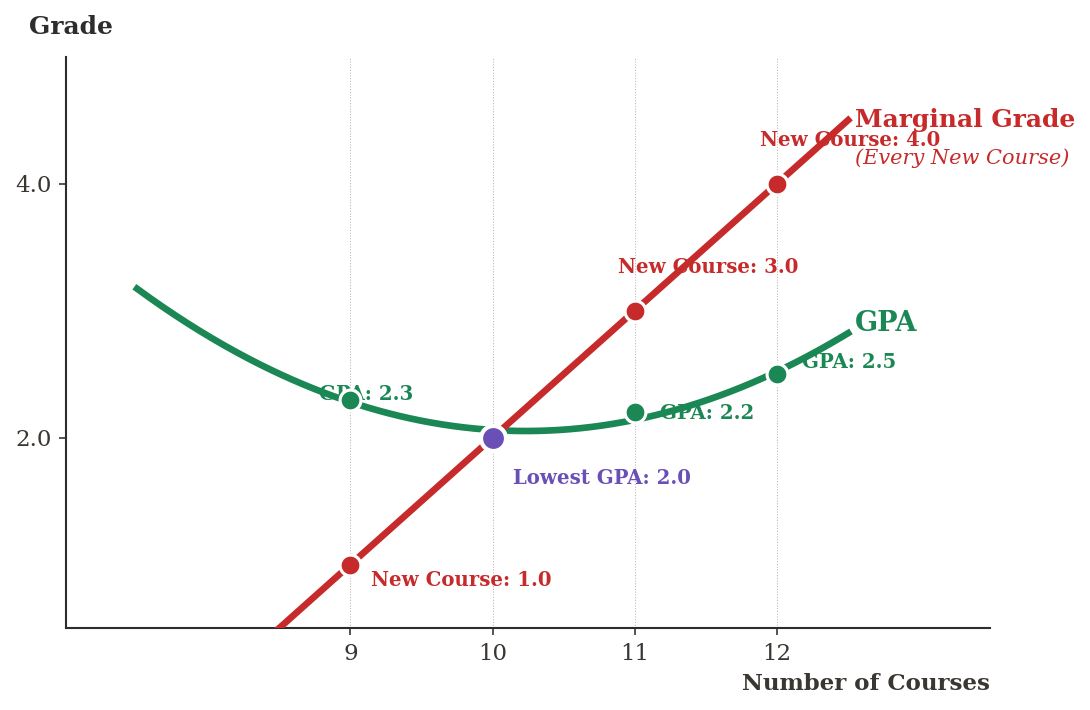
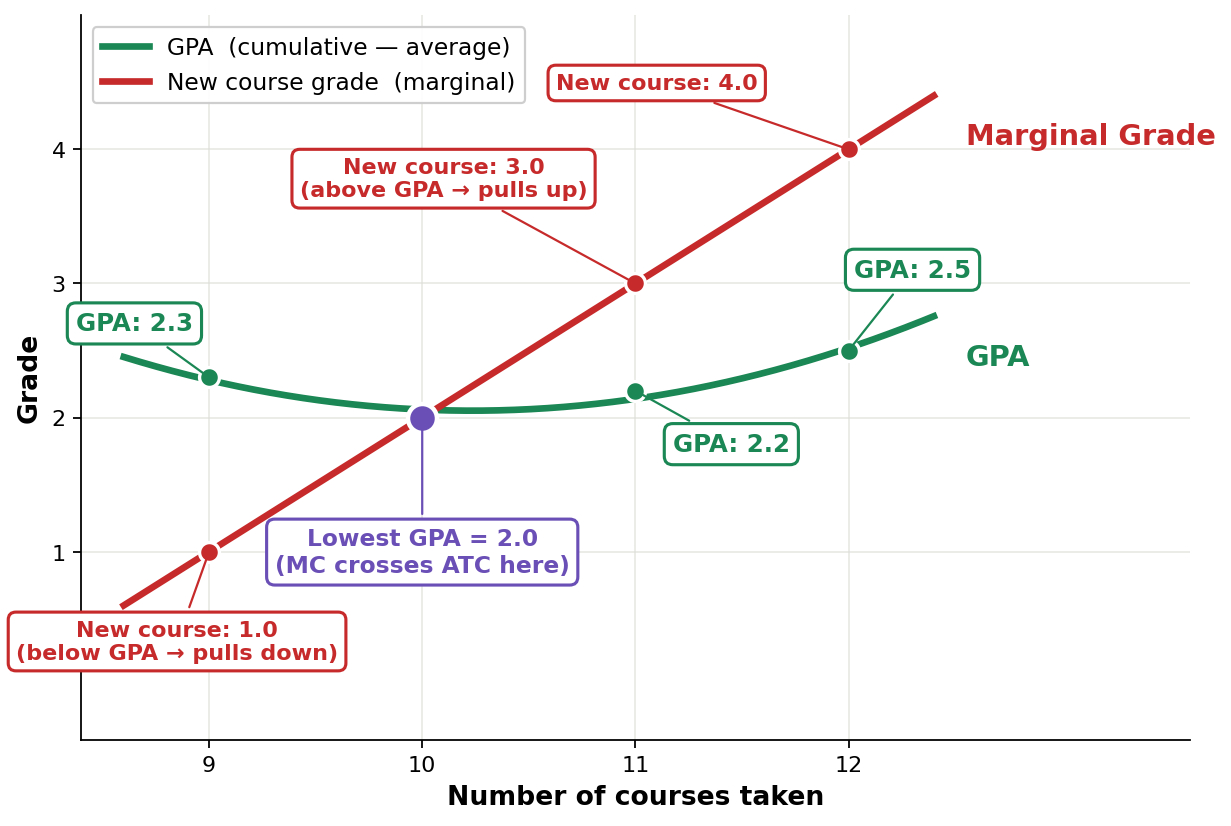
ch09: regen GPA chart, merge cost-defs into p55, vertical poll-2, drop p61
- p57 (amc-gpa-analogy): regenerate fig-gpa-analogy.png with white-bbox labels
  + leader lines so "GPA: 2.3 / 2.2 / 2.5", "New course: 1.0 / 3.0 / 4.0",
  and "Lowest GPA = 2.0" no longer overlap the curves. Script at
  figures/render_gpa_analogy.py.
- p55 (costs-that-matter): fold the former cost-definitions slide content
  into the bottom of p55 as 4 color-coded formula cards (MC, AVC, ATC, AFC)
  with colored left borders + formula header + brief description.
- p61 (cost-definitions): removed (merged above). Vertical stack under
  fc-vc YOU TRY is now 1/3 fc-vc → 2/3 total-costs-chart → 3/3
  cost-curves-chart.
- p64/p65 (poll-2): convert to the Ch7/Ch8 vertical-stack pattern. p64 is
  the question only (no inline results bar). Press ↓ from p64 reveals
  p65: bar chart + "Answer: B" explanation card with the GPA-analogy
  parallel ("a 3.0 below your 4.0 GPA drops the cumulative").

diff --git a/econ1116/ch09-inside-the-firm/index.html b/econ1116/ch09-inside-the-firm/index.html
@@ -2052,13 +2052,26 @@
    <img alt="MC (red, U-shape), AVC (purple, U-shape), ATC (orange, U-shape), and AFC (dark green, monotonically declining) as functions of output Q from 20 to 155" src="figures/fig-costs-that-matter.png" style="width: 100%; max-height: 300px; border-radius: 6px;">
   </div>
  </div>
- <div style="display: grid; grid-template-columns: 1fr 1fr; gap: 8px 14px; margin: 6px 0 0; font-size: 10pt; line-height: 1.35;">
-  <p class="fragment fade-up" data-fragment-index="1" style="margin: 0;"><strong style="color: #C72A2A;">MC</strong> = &Delta;TC/&Delta;Q &mdash; <strong>U-shape</strong> from diminishing returns.</p>
-  <p class="fragment fade-up" data-fragment-index="2" style="margin: 0;"><strong style="color: #9C6FCC;">AVC</strong> = VC/Q &mdash; U-shape; crosses MC at AVC min.</p>
-  <p class="fragment fade-up" data-fragment-index="3" style="margin: 0;"><strong style="color: #F08C26;">ATC</strong> = TC/Q &mdash; U-shape; crosses MC at ATC min.</p>
-  <p class="fragment fade-up" data-fragment-index="4" style="margin: 0;"><strong style="color: #0A5538;">AFC</strong> = FC/Q &mdash; monotonically declines (FC spread out).</p>
+ <!-- Per-unit cost formula cards (merged from former cost-definitions slide) -->
+ <div style="display: grid; grid-template-columns: 1fr 1fr 1fr 1fr; gap: 6px; margin: 6px 0 0;">
+  <div class="fragment fade-up" data-fragment-index="1" style="background: #fef2f2; border-left: 3px solid #C72A2A; border-radius: 5px; padding: 5px 9px;">
+   <p style="font-size: 10pt; font-weight: 800; color: #C72A2A; margin: 0;">MC = &Delta;TC / &Delta;Q</p>
+   <p style="font-size: 9pt; margin: 1px 0 0; line-height: 1.3;">Cost of one more unit. <strong>U-shape</strong> from diminishing returns.</p>
+  </div>
+  <div class="fragment fade-up" data-fragment-index="2" style="background: #f5e9f7; border-left: 3px solid #9C6FCC; border-radius: 5px; padding: 5px 9px;">
+   <p style="font-size: 10pt; font-weight: 800; color: #9C6FCC; margin: 0;">AVC = VC / Q</p>
+   <p style="font-size: 9pt; margin: 1px 0 0; line-height: 1.3;">U-shaped. MC crosses AVC at AVC min.</p>
+  </div>
+  <div class="fragment fade-up" data-fragment-index="3" style="background: #fff7ed; border-left: 3px solid #F08C26; border-radius: 5px; padding: 5px 9px;">
+   <p style="font-size: 10pt; font-weight: 800; color: #F08C26; margin: 0;">ATC = TC / Q = AFC + AVC</p>
+   <p style="font-size: 9pt; margin: 1px 0 0; line-height: 1.3;">U-shaped. Always above AVC. MC crosses ATC at ATC min.</p>
+  </div>
+  <div class="fragment fade-up" data-fragment-index="4" style="background: #ecfdf5; border-left: 3px solid #0A5538; border-radius: 5px; padding: 5px 9px;">
+   <p style="font-size: 10pt; font-weight: 800; color: #0A5538; margin: 0;">AFC = FC / Q</p>
+   <p style="font-size: 9pt; margin: 1px 0 0; line-height: 1.3;">Always falls as Q rises (FC spread out).</p>
+  </div>
  </div>
- <aside class="notes">The full cost decomposition. Walk through the chart left-to-right: AFC (dark green) just keeps falling &mdash; fixed cost spread over more units. AVC (purple) and ATC (orange) are U-shaped &mdash; they fall at first (early specialization + declining AFC dominates), then rise as MC overtakes them (diminishing MP regime). MC (red) is the inflection: starts at $0.85 at Q=20, dips to $0.48 at Q=90, then climbs steeply to $3.10 at Q=155. The MC=AVC crossing at Q=120 (both &asymp; $0.60) is the AVC minimum &mdash; geometric identity. MC=ATC crossing at Q&asymp;140 (both &asymp; $0.82) is the ATC minimum.</aside>
+ <aside class="notes">The full cost decomposition. Walk through the chart left-to-right: AFC (dark green) just keeps falling &mdash; fixed cost spread over more units. AVC (purple) and ATC (orange) are U-shaped &mdash; they fall at first (early specialization + declining AFC dominates), then rise as MC overtakes them (diminishing MP regime). MC (red) is the inflection: starts at $0.85 at Q=20, dips to $0.48 at Q=90, then climbs steeply to $3.10 at Q=155. The MC=AVC crossing at Q=120 (both &asymp; $0.60) is the AVC minimum &mdash; geometric identity. MC=ATC crossing at Q&asymp;140 (both &asymp; $0.82) is the ATC minimum. The 4 cost-formula cards along the bottom replace the former standalone cost-definitions slide (merged).</aside>
 </section>
 
 <!-- ===== Slide AM — Average & Marginal Costs Relationships (merged, no equations) ===== -->
@@ -2203,7 +2216,7 @@
 <!-- ============ VERTICAL STACK: YOU TRY cost schedule → TC chart → defs → canonical chart ============ -->
 <section>
 
-<!-- vertical 1/4 — YOU TRY: fill the cost schedule (TC/MC/AFC/AVC/ATC hidden) -->
+<!-- vertical 1/3 — YOU TRY: fill the cost schedule (TC/MC/AFC/AVC/ATC hidden) -->
 <section id="fc-vc">
  <h2><span style="display: inline-block; background: var(--accent-color); color: #fff; font-size: 11pt; font-weight: 800; letter-spacing: 0.12em; padding: 2px 10px; border-radius: 4px; vertical-align: middle; margin-right: 10px;">YOU TRY</span><i class="fa-solid fa-layer-group" style="color: var(--secondary-color);"></i> Fixed Costs vs. Variable Costs &mdash; Fill the Schedule</h2>
  <div style="display: grid; grid-template-columns: 1fr 1fr; gap: 14px; margin-bottom: 10px;">
@@ -2233,11 +2246,11 @@
   <tr style="background: #fafafa;"><td style="padding: 6px 10px; text-align: center;">5</td><td style="padding: 6px 10px; text-align: center;">50</td><td style="padding: 6px 10px; text-align: center;">$25</td><td style="padding: 6px 10px; text-align: center;">$150</td><td style="padding: 6px 10px; text-align: center; color: #b45309;">?</td><td style="padding: 6px 10px; text-align: center; color: #b45309;">?</td><td style="padding: 6px 10px; text-align: center; color: #b45309;">?</td><td style="padding: 6px 10px; text-align: center; color: #b45309;">?</td><td style="padding: 6px 10px; text-align: center; color: #b45309;">?</td></tr>
  </table>
  <aside class="notes">
-  Hand students a worksheet with this table. Walk one row out loud as a model: L=2, Q=30. VC = $15&times;2 + $1.50&times;30 = $30 + $45 = $75 (given). TC = $25 + $75 = $100. ATC = $100/30 = $3.33. MC from prior row = ($100&minus;$58)/(30&minus;12) = $42/18 = $2.33. Then give 3-4 minutes for them to fill the rest. Press &darr; to reveal: (1) TC vs FC vs VC chart, (2) per-unit cost definitions, (3) canonical MC&times;AVC&times;ATC chart with the full schedule&rsquo;s ATC minimum at L=3 row (efficient scale).
+  Hand students a worksheet with this table. Walk one row out loud as a model: L=2, Q=30. VC = $15&times;2 + $1.50&times;30 = $30 + $45 = $75 (given). TC = $25 + $75 = $100. ATC = $100/30 = $3.33. MC from prior row = ($100&minus;$58)/(30&minus;12) = $42/18 = $2.33. Then give 3-4 minutes for them to fill the rest. Press &darr; to reveal: (1) TC vs FC vs VC chart, (2) canonical MC&times;AVC&times;ATC chart with the full schedule&rsquo;s ATC minimum at L=3 row (efficient scale).
  </aside>
 </section>
 
-<!-- vertical 2/4 — Total Cost chart (visual answer for TC = FC + VC) -->
+<!-- vertical 2/3 — Total Cost chart (visual answer for TC = FC + VC) -->
 <section id="total-costs-chart">
  <h2><i class="fa-solid fa-chart-area" style="color: var(--secondary-color);"></i> Answer &mdash; Total, Variable, and Fixed Cost</h2>
  <img alt="Campus Coffee total cost curves" src="figures/figure_002_total_costs.png" style="max-width: 100%; max-height: 480px; object-fit: contain; display: block; margin: 0 auto;">
@@ -2251,36 +2264,9 @@
  </aside>
 </section>
 
-<!-- vertical 3/4 — Per-unit cost definitions (formulas for AFC, AVC, ATC, MC) -->
-<section id="cost-definitions">
- <h2><i class="fa-solid fa-list-check" style="color: var(--accent-color);"></i> Answer &mdash; Per-Unit Cost Formulas</h2>
- <div style="display: grid; grid-template-columns: 1fr 1fr; gap: 14px;">
-  <div style="background: #f5e9f7; border-radius: 10px; padding: 14px 18px; border-left: 4px solid #7c3aed;">
-   <p style="font-size: 13pt; font-weight: 700; color: #7c3aed;">AFC = FC / Q</p>
-   <p style="font-size: 12.5pt; margin-top: 4px;">Average fixed cost &mdash; <strong>always falls</strong> as Q rises (spreading FC).</p>
-  </div>
-  <div style="background: #ecfeff; border-radius: 10px; padding: 14px 18px; border-left: 4px solid #0891b2;">
-   <p style="font-size: 13pt; font-weight: 700; color: #0891b2;">AVC = VC / Q</p>
-   <p style="font-size: 12.5pt; margin-top: 4px;">Average variable cost &mdash; typically <strong>U-shaped</strong>.</p>
-  </div>
-  <div style="background: #eff6ff; border-radius: 10px; padding: 14px 18px; border-left: 4px solid var(--primary-color);">
-   <p style="font-size: 13pt; font-weight: 700; color: var(--primary-color);">ATC = TC / Q = AFC + AVC</p>
-   <p style="font-size: 12.5pt; margin-top: 4px;">Average total cost &mdash; <strong>U-shaped</strong>. Always above AVC.</p>
-  </div>
-  <div style="background: #fff7ed; border-radius: 10px; padding: 14px 18px; border-left: 4px solid var(--accent-color);">
-   <p style="font-size: 13pt; font-weight: 700; color: var(--accent-color);">MC = &Delta;TC / &Delta;Q</p>
-   <p style="font-size: 12.5pt; margin-top: 4px;">Marginal cost &mdash; cost of <em>one more</em> unit. <strong>The most important cost for decisions.</strong></p>
-  </div>
- </div>
- <div style="background: #eff6ff; border-radius: 10px; padding: 12px 20px; margin-top: 12px; border: 2px solid var(--secondary-color); text-align: center;">
-  <p style="font-size: 13pt;">When <strong>MP is high &rarr; MC is low</strong> &nbsp;&middot;&nbsp; when <strong>MP is low &rarr; MC is high</strong>. They&rsquo;re mirror images.</p>
- </div>
- <aside class="notes">
-  Define each, but emphasize MC. Connect to the production function: MC = wage / MP for a variable input. The same diminishing returns that lowered MP in §2 raise MC here.
- </aside>
-</section>
+<!-- (cost-definitions removed 2026-05-31 — merged into costs-that-matter slide as 4 formula cards along the bottom) -->
 
-<!-- vertical 4/4 — The canonical cost curves chart (full visual answer) -->
+<!-- vertical 3/3 — The canonical cost curves chart (full visual answer) -->
 <section id="cost-curves-chart">
  <h2><i class="fa-solid fa-chart-line" style="color: var(--accent-color);"></i> Answer &mdash; The Canonical Cost Curves</h2>
  <img alt="MC crossing AVC and ATC at their minima" src="figures/figure_003_mc_atc_avc.png" style="max-width: 100%; max-height: 530px; object-fit: contain; display: block; margin: 0 auto;">
@@ -2357,6 +2343,9 @@
 </section>
 
 <!-- ============ POLL 2 — GPA / MC-ATC CHECK ============ -->
+<!-- Poll 2 (vertical stack: question + reveal — same pattern as Ch7/Ch8) -->
+<section>
+
 <section id="poll-2">
  <h2><i class="fa-solid fa-square-poll-vertical" style="color: var(--accent-color);"></i> Poll &mdash; The MC/ATC Check</h2>
  <div style="background: #f8f6f3; border-radius: 10px; padding: 14px 20px; margin-bottom: 14px; border-left: 4px solid var(--secondary-color);">
@@ -2376,12 +2365,29 @@
    <p style="font-size: 13pt;"><strong>D.</strong> Depends on whether MR &gt; MC</p>
   </div>
  </div>
- <div class="poll-results-chart" data-poll-id="ch09-poll-2" style="display: flex; align-items: flex-end; justify-content: space-around; height: 200px; margin: 30px 0 40px 0; border-bottom: 2px solid #ddd; padding: 0 40px;"></div>
- <p style="font-size: 12pt; color: var(--muted-color); text-align: center;">Vote &mdash; results above. (Hint: GPA analogy.)</p>
+ <p style="font-size: 13pt; color: var(--muted-color); text-align: center; margin-top: 14px; font-style: italic;">Click your answer. (Hint: GPA analogy.) Press <strong>&darr;</strong> for results.</p>
  <aside class="notes">
-  Correct: <strong>B</strong>. MC=$3 &lt; ATC=$4, so the next unit pulls the average DOWN. (D is a Ch 10 question — profit maximization — but here we&rsquo;re asking purely about averages.)
+  Correct: <strong>B</strong>. MC=$3 &lt; ATC=$4, so the next unit pulls the average DOWN. (D is a Ch 10 question — profit maximization — but here we&rsquo;re asking purely about averages.) Press &darr; to reveal the bar-chart results + answer card.
  </aside>
 </section>
+
+<!-- Poll 2 reveal — vertical down -->
+<section id="poll-2-reveal">
+ <h2><i class="fa-solid fa-chart-column" style="color: var(--accent-color);"></i> Poll Results</h2>
+ <div class="poll-results-chart" data-poll-id="ch09-poll-2" style="display: flex; align-items: flex-end; justify-content: space-around; height: 200px; margin: 20px 0 40px 0; border-bottom: 2px solid #ddd; padding: 0 40px;"></div>
+ <div style="background: #fff7ed; border-radius: 10px; padding: 16px 22px; border-left: 4px solid var(--accent-color); margin-top: 12px;">
+  <p style="font-size: 14pt;"><strong>Answer: B.</strong> MC = $3 is <strong>below</strong> the running average ATC = $4 &mdash; so the next loaf pulls ATC <strong>down</strong>. (Same GPA rule: a 3.0 below your 4.0 GPA drops the cumulative.)</p>
+  <p style="font-size: 12.5pt; margin-top: 8px; color: var(--muted-color);">
+   The new ATC after that loaf isn&rsquo;t $3 (that&rsquo;s just the marginal cost of <em>one</em> unit). It lands somewhere between $3 and $4, weighted by how many loaves were already in the average. (D is a Ch 10 profit-max question &mdash; not what we&rsquo;re asking here.)
+  </p>
+ </div>
+ <aside class="notes">
+  Walk through the bar chart. If most picked B → reinforce. If many picked A → highlight the misconception (more total cost ≠ higher average if the new unit is below average). D-pickers were thinking about profit-max (Ch 10), not just the arithmetic of averages.
+ </aside>
+</section>
+
+</section>
+<!-- end Poll 2 vertical stack -->
 
 <!-- ============ MISCONCEPTION: FC IRRELEVANT FOR Q* ============ -->
 <section id="fc-misconception">

diff --git a/econ1116/ch09-inside-the-firm/presentation.html b/econ1116/ch09-inside-the-firm/presentation.html
@@ -2052,13 +2052,26 @@
    <img alt="MC (red, U-shape), AVC (purple, U-shape), ATC (orange, U-shape), and AFC (dark green, monotonically declining) as functions of output Q from 20 to 155" src="figures/fig-costs-that-matter.png" style="width: 100%; max-height: 300px; border-radius: 6px;">
   </div>
  </div>
- <div style="display: grid; grid-template-columns: 1fr 1fr; gap: 8px 14px; margin: 6px 0 0; font-size: 10pt; line-height: 1.35;">
-  <p class="fragment fade-up" data-fragment-index="1" style="margin: 0;"><strong style="color: #C72A2A;">MC</strong> = &Delta;TC/&Delta;Q &mdash; <strong>U-shape</strong> from diminishing returns.</p>
-  <p class="fragment fade-up" data-fragment-index="2" style="margin: 0;"><strong style="color: #9C6FCC;">AVC</strong> = VC/Q &mdash; U-shape; crosses MC at AVC min.</p>
-  <p class="fragment fade-up" data-fragment-index="3" style="margin: 0;"><strong style="color: #F08C26;">ATC</strong> = TC/Q &mdash; U-shape; crosses MC at ATC min.</p>
-  <p class="fragment fade-up" data-fragment-index="4" style="margin: 0;"><strong style="color: #0A5538;">AFC</strong> = FC/Q &mdash; monotonically declines (FC spread out).</p>
+ <!-- Per-unit cost formula cards (merged from former cost-definitions slide) -->
+ <div style="display: grid; grid-template-columns: 1fr 1fr 1fr 1fr; gap: 6px; margin: 6px 0 0;">
+  <div class="fragment fade-up" data-fragment-index="1" style="background: #fef2f2; border-left: 3px solid #C72A2A; border-radius: 5px; padding: 5px 9px;">
+   <p style="font-size: 10pt; font-weight: 800; color: #C72A2A; margin: 0;">MC = &Delta;TC / &Delta;Q</p>
+   <p style="font-size: 9pt; margin: 1px 0 0; line-height: 1.3;">Cost of one more unit. <strong>U-shape</strong> from diminishing returns.</p>
+  </div>
+  <div class="fragment fade-up" data-fragment-index="2" style="background: #f5e9f7; border-left: 3px solid #9C6FCC; border-radius: 5px; padding: 5px 9px;">
+   <p style="font-size: 10pt; font-weight: 800; color: #9C6FCC; margin: 0;">AVC = VC / Q</p>
+   <p style="font-size: 9pt; margin: 1px 0 0; line-height: 1.3;">U-shaped. MC crosses AVC at AVC min.</p>
+  </div>
+  <div class="fragment fade-up" data-fragment-index="3" style="background: #fff7ed; border-left: 3px solid #F08C26; border-radius: 5px; padding: 5px 9px;">
+   <p style="font-size: 10pt; font-weight: 800; color: #F08C26; margin: 0;">ATC = TC / Q = AFC + AVC</p>
+   <p style="font-size: 9pt; margin: 1px 0 0; line-height: 1.3;">U-shaped. Always above AVC. MC crosses ATC at ATC min.</p>
+  </div>
+  <div class="fragment fade-up" data-fragment-index="4" style="background: #ecfdf5; border-left: 3px solid #0A5538; border-radius: 5px; padding: 5px 9px;">
+   <p style="font-size: 10pt; font-weight: 800; color: #0A5538; margin: 0;">AFC = FC / Q</p>
+   <p style="font-size: 9pt; margin: 1px 0 0; line-height: 1.3;">Always falls as Q rises (FC spread out).</p>
+  </div>
  </div>
- <aside class="notes">The full cost decomposition. Walk through the chart left-to-right: AFC (dark green) just keeps falling &mdash; fixed cost spread over more units. AVC (purple) and ATC (orange) are U-shaped &mdash; they fall at first (early specialization + declining AFC dominates), then rise as MC overtakes them (diminishing MP regime). MC (red) is the inflection: starts at $0.85 at Q=20, dips to $0.48 at Q=90, then climbs steeply to $3.10 at Q=155. The MC=AVC crossing at Q=120 (both &asymp; $0.60) is the AVC minimum &mdash; geometric identity. MC=ATC crossing at Q&asymp;140 (both &asymp; $0.82) is the ATC minimum.</aside>
+ <aside class="notes">The full cost decomposition. Walk through the chart left-to-right: AFC (dark green) just keeps falling &mdash; fixed cost spread over more units. AVC (purple) and ATC (orange) are U-shaped &mdash; they fall at first (early specialization + declining AFC dominates), then rise as MC overtakes them (diminishing MP regime). MC (red) is the inflection: starts at $0.85 at Q=20, dips to $0.48 at Q=90, then climbs steeply to $3.10 at Q=155. The MC=AVC crossing at Q=120 (both &asymp; $0.60) is the AVC minimum &mdash; geometric identity. MC=ATC crossing at Q&asymp;140 (both &asymp; $0.82) is the ATC minimum. The 4 cost-formula cards along the bottom replace the former standalone cost-definitions slide (merged).</aside>
 </section>
 
 <!-- ===== Slide AM — Average & Marginal Costs Relationships (merged, no equations) ===== -->
@@ -2203,7 +2216,7 @@
 <!-- ============ VERTICAL STACK: YOU TRY cost schedule → TC chart → defs → canonical chart ============ -->
 <section>
 
-<!-- vertical 1/4 — YOU TRY: fill the cost schedule (TC/MC/AFC/AVC/ATC hidden) -->
+<!-- vertical 1/3 — YOU TRY: fill the cost schedule (TC/MC/AFC/AVC/ATC hidden) -->
 <section id="fc-vc">
  <h2><span style="display: inline-block; background: var(--accent-color); color: #fff; font-size: 11pt; font-weight: 800; letter-spacing: 0.12em; padding: 2px 10px; border-radius: 4px; vertical-align: middle; margin-right: 10px;">YOU TRY</span><i class="fa-solid fa-layer-group" style="color: var(--secondary-color);"></i> Fixed Costs vs. Variable Costs &mdash; Fill the Schedule</h2>
  <div style="display: grid; grid-template-columns: 1fr 1fr; gap: 14px; margin-bottom: 10px;">
@@ -2233,11 +2246,11 @@
   <tr style="background: #fafafa;"><td style="padding: 6px 10px; text-align: center;">5</td><td style="padding: 6px 10px; text-align: center;">50</td><td style="padding: 6px 10px; text-align: center;">$25</td><td style="padding: 6px 10px; text-align: center;">$150</td><td style="padding: 6px 10px; text-align: center; color: #b45309;">?</td><td style="padding: 6px 10px; text-align: center; color: #b45309;">?</td><td style="padding: 6px 10px; text-align: center; color: #b45309;">?</td><td style="padding: 6px 10px; text-align: center; color: #b45309;">?</td><td style="padding: 6px 10px; text-align: center; color: #b45309;">?</td></tr>
  </table>
  <aside class="notes">
-  Hand students a worksheet with this table. Walk one row out loud as a model: L=2, Q=30. VC = $15&times;2 + $1.50&times;30 = $30 + $45 = $75 (given). TC = $25 + $75 = $100. ATC = $100/30 = $3.33. MC from prior row = ($100&minus;$58)/(30&minus;12) = $42/18 = $2.33. Then give 3-4 minutes for them to fill the rest. Press &darr; to reveal: (1) TC vs FC vs VC chart, (2) per-unit cost definitions, (3) canonical MC&times;AVC&times;ATC chart with the full schedule&rsquo;s ATC minimum at L=3 row (efficient scale).
+  Hand students a worksheet with this table. Walk one row out loud as a model: L=2, Q=30. VC = $15&times;2 + $1.50&times;30 = $30 + $45 = $75 (given). TC = $25 + $75 = $100. ATC = $100/30 = $3.33. MC from prior row = ($100&minus;$58)/(30&minus;12) = $42/18 = $2.33. Then give 3-4 minutes for them to fill the rest. Press &darr; to reveal: (1) TC vs FC vs VC chart, (2) canonical MC&times;AVC&times;ATC chart with the full schedule&rsquo;s ATC minimum at L=3 row (efficient scale).
  </aside>
 </section>
 
-<!-- vertical 2/4 — Total Cost chart (visual answer for TC = FC + VC) -->
+<!-- vertical 2/3 — Total Cost chart (visual answer for TC = FC + VC) -->
 <section id="total-costs-chart">
  <h2><i class="fa-solid fa-chart-area" style="color: var(--secondary-color);"></i> Answer &mdash; Total, Variable, and Fixed Cost</h2>
  <img alt="Campus Coffee total cost curves" src="figures/figure_002_total_costs.png" style="max-width: 100%; max-height: 480px; object-fit: contain; display: block; margin: 0 auto;">
@@ -2251,36 +2264,9 @@
  </aside>
 </section>
 
-<!-- vertical 3/4 — Per-unit cost definitions (formulas for AFC, AVC, ATC, MC) -->
-<section id="cost-definitions">
- <h2><i class="fa-solid fa-list-check" style="color: var(--accent-color);"></i> Answer &mdash; Per-Unit Cost Formulas</h2>
- <div style="display: grid; grid-template-columns: 1fr 1fr; gap: 14px;">
-  <div style="background: #f5e9f7; border-radius: 10px; padding: 14px 18px; border-left: 4px solid #7c3aed;">
-   <p style="font-size: 13pt; font-weight: 700; color: #7c3aed;">AFC = FC / Q</p>
-   <p style="font-size: 12.5pt; margin-top: 4px;">Average fixed cost &mdash; <strong>always falls</strong> as Q rises (spreading FC).</p>
-  </div>
-  <div style="background: #ecfeff; border-radius: 10px; padding: 14px 18px; border-left: 4px solid #0891b2;">
-   <p style="font-size: 13pt; font-weight: 700; color: #0891b2;">AVC = VC / Q</p>
-   <p style="font-size: 12.5pt; margin-top: 4px;">Average variable cost &mdash; typically <strong>U-shaped</strong>.</p>
-  </div>
-  <div style="background: #eff6ff; border-radius: 10px; padding: 14px 18px; border-left: 4px solid var(--primary-color);">
-   <p style="font-size: 13pt; font-weight: 700; color: var(--primary-color);">ATC = TC / Q = AFC + AVC</p>
-   <p style="font-size: 12.5pt; margin-top: 4px;">Average total cost &mdash; <strong>U-shaped</strong>. Always above AVC.</p>
-  </div>
-  <div style="background: #fff7ed; border-radius: 10px; padding: 14px 18px; border-left: 4px solid var(--accent-color);">
-   <p style="font-size: 13pt; font-weight: 700; color: var(--accent-color);">MC = &Delta;TC / &Delta;Q</p>
-   <p style="font-size: 12.5pt; margin-top: 4px;">Marginal cost &mdash; cost of <em>one more</em> unit. <strong>The most important cost for decisions.</strong></p>
-  </div>
- </div>
- <div style="background: #eff6ff; border-radius: 10px; padding: 12px 20px; margin-top: 12px; border: 2px solid var(--secondary-color); text-align: center;">
-  <p style="font-size: 13pt;">When <strong>MP is high &rarr; MC is low</strong> &nbsp;&middot;&nbsp; when <strong>MP is low &rarr; MC is high</strong>. They&rsquo;re mirror images.</p>
- </div>
- <aside class="notes">
-  Define each, but emphasize MC. Connect to the production function: MC = wage / MP for a variable input. The same diminishing returns that lowered MP in §2 raise MC here.
- </aside>
-</section>
+<!-- (cost-definitions removed 2026-05-31 — merged into costs-that-matter slide as 4 formula cards along the bottom) -->
 
-<!-- vertical 4/4 — The canonical cost curves chart (full visual answer) -->
+<!-- vertical 3/3 — The canonical cost curves chart (full visual answer) -->
 <section id="cost-curves-chart">
  <h2><i class="fa-solid fa-chart-line" style="color: var(--accent-color);"></i> Answer &mdash; The Canonical Cost Curves</h2>
  <img alt="MC crossing AVC and ATC at their minima" src="figures/figure_003_mc_atc_avc.png" style="max-width: 100%; max-height: 530px; object-fit: contain; display: block; margin: 0 auto;">
@@ -2357,6 +2343,9 @@
 </section>
 
 <!-- ============ POLL 2 — GPA / MC-ATC CHECK ============ -->
+<!-- Poll 2 (vertical stack: question + reveal — same pattern as Ch7/Ch8) -->
+<section>
+
 <section id="poll-2">
  <h2><i class="fa-solid fa-square-poll-vertical" style="color: var(--accent-color);"></i> Poll &mdash; The MC/ATC Check</h2>
  <div style="background: #f8f6f3; border-radius: 10px; padding: 14px 20px; margin-bottom: 14px; border-left: 4px solid var(--secondary-color);">
@@ -2376,12 +2365,29 @@
    <p style="font-size: 13pt;"><strong>D.</strong> Depends on whether MR &gt; MC</p>
   </div>
  </div>
- <div class="poll-results-chart" data-poll-id="ch09-poll-2" style="display: flex; align-items: flex-end; justify-content: space-around; height: 200px; margin: 30px 0 40px 0; border-bottom: 2px solid #ddd; padding: 0 40px;"></div>
- <p style="font-size: 12pt; color: var(--muted-color); text-align: center;">Vote &mdash; results above. (Hint: GPA analogy.)</p>
+ <p style="font-size: 13pt; color: var(--muted-color); text-align: center; margin-top: 14px; font-style: italic;">Click your answer. (Hint: GPA analogy.) Press <strong>&darr;</strong> for results.</p>
  <aside class="notes">
-  Correct: <strong>B</strong>. MC=$3 &lt; ATC=$4, so the next unit pulls the average DOWN. (D is a Ch 10 question — profit maximization — but here we&rsquo;re asking purely about averages.)
+  Correct: <strong>B</strong>. MC=$3 &lt; ATC=$4, so the next unit pulls the average DOWN. (D is a Ch 10 question — profit maximization — but here we&rsquo;re asking purely about averages.) Press &darr; to reveal the bar-chart results + answer card.
  </aside>
 </section>
+
+<!-- Poll 2 reveal — vertical down -->
+<section id="poll-2-reveal">
+ <h2><i class="fa-solid fa-chart-column" style="color: var(--accent-color);"></i> Poll Results</h2>
+ <div class="poll-results-chart" data-poll-id="ch09-poll-2" style="display: flex; align-items: flex-end; justify-content: space-around; height: 200px; margin: 20px 0 40px 0; border-bottom: 2px solid #ddd; padding: 0 40px;"></div>
+ <div style="background: #fff7ed; border-radius: 10px; padding: 16px 22px; border-left: 4px solid var(--accent-color); margin-top: 12px;">
+  <p style="font-size: 14pt;"><strong>Answer: B.</strong> MC = $3 is <strong>below</strong> the running average ATC = $4 &mdash; so the next loaf pulls ATC <strong>down</strong>. (Same GPA rule: a 3.0 below your 4.0 GPA drops the cumulative.)</p>
+  <p style="font-size: 12.5pt; margin-top: 8px; color: var(--muted-color);">
+   The new ATC after that loaf isn&rsquo;t $3 (that&rsquo;s just the marginal cost of <em>one</em> unit). It lands somewhere between $3 and $4, weighted by how many loaves were already in the average. (D is a Ch 10 profit-max question &mdash; not what we&rsquo;re asking here.)
+  </p>
+ </div>
+ <aside class="notes">
+  Walk through the bar chart. If most picked B → reinforce. If many picked A → highlight the misconception (more total cost ≠ higher average if the new unit is below average). D-pickers were thinking about profit-max (Ch 10), not just the arithmetic of averages.
+ </aside>
+</section>
+
+</section>
+<!-- end Poll 2 vertical stack -->
 
 <!-- ============ MISCONCEPTION: FC IRRELEVANT FOR Q* ============ -->
 <section id="fc-misconception">

diff --git a/econ1116/ch09-inside-the-firm/figures/render_gpa_analogy.py b/econ1116/ch09-inside-the-firm/figures/render_gpa_analogy.py
@@ -1,0 +1,96 @@
+"""Regenerate fig-gpa-analogy.png with non-overlapping labels.
+
+Previous version (imported from 2316 ch08) had labels stacked directly on top
+of the curves: "GPA: 2.3", "GPA: 2.2", "GPA: 2.5" overlapped the green line;
+"New Course: 1.0/3.0/4.0" overlapped the red line; "Lowest GPA: 2.0" overlapped
+the crossing point. This version uses white-bbox labels placed off the curves
+with short leader-line arrows.
+
+Story: 4 semesters (courses 9 → 12). Cumulative GPA (green, average) reacts to
+each new course's grade (red, marginal). Sub-GPA next courses pull GPA down;
+above-GPA ones pull it up. They cross at the GPA minimum (course 10).
+"""
+import matplotlib
+matplotlib.use('Agg')
+import matplotlib.pyplot as plt
+import numpy as np
+
+# Data
+courses = np.array([9, 10, 11, 12])
+gpa     = np.array([2.3, 2.0, 2.2, 2.5])
+new_grade = np.array([1.0, 2.0, 3.0, 4.0])
+
+# Smooth curves through the 4 points (quadratic + linear)
+xs = np.linspace(8.6, 12.4, 200)
+gpa_coef = np.polyfit(courses, gpa, 2)
+gpa_smooth = np.polyval(gpa_coef, xs)
+new_smooth = np.polyval(np.polyfit(courses, new_grade, 1), xs)
+
+# Figure
+GREEN = '#1A8754'
+RED   = '#C72A2A'
+PURPLE = '#6A4FB6'
+GRID  = '#dcdcd6'
+
+fig, ax = plt.subplots(figsize=(8.0, 5.3))
+ax.plot(xs, gpa_smooth, color=GREEN, linewidth=3.0, label='GPA  (cumulative — average)', zorder=3)
+ax.plot(xs, new_smooth, color=RED,   linewidth=3.0, label='New course grade  (marginal)', zorder=3)
+
+# Data points
+ax.scatter(courses, gpa, color=GREEN, s=80, zorder=5, edgecolor='white', linewidth=1.5)
+ax.scatter(courses, new_grade, color=RED, s=80, zorder=5, edgecolor='white', linewidth=1.5)
+
+# Crossing point (course 10)
+ax.scatter([10], [2.0], color=PURPLE, s=170, zorder=6, edgecolor='white', linewidth=2.0)
+
+
+def label(ax, txt, xy, xytext, color, fontsize=11, weight='bold'):
+    ax.annotate(txt, xy=xy, xytext=xytext, fontsize=fontsize, color=color,
+                fontweight=weight, ha='center',
+                bbox=dict(boxstyle='round,pad=0.35', facecolor='white',
+                          edgecolor=color, linewidth=1.4),
+                arrowprops=dict(arrowstyle='-', color=color, lw=1.0,
+                                connectionstyle='arc3,rad=0'),
+                zorder=10)
+
+
+# GPA labels (placed BELOW or ABOVE the green curve so they don't overlap it)
+label(ax, 'GPA: 2.3',  xy=(9, 2.3),  xytext=(8.65, 2.65), color=GREEN)
+label(ax, 'GPA: 2.2',  xy=(11, 2.2), xytext=(11.45, 1.75), color=GREEN)
+label(ax, 'GPA: 2.5',  xy=(12, 2.5), xytext=(12.30, 3.05), color=GREEN)
+
+# Crossing point label (placed below, in purple)
+label(ax, 'Lowest GPA = 2.0\n(MC crosses ATC here)',
+      xy=(10, 2.0), xytext=(10, 0.85), color=PURPLE, fontsize=10.5)
+
+# Marginal-grade labels (placed AWAY from red line)
+label(ax, 'New course: 1.0\n(below GPA → pulls down)',
+      xy=(9, 1.0), xytext=(8.85, 0.20), color=RED, fontsize=10)
+label(ax, 'New course: 3.0\n(above GPA → pulls up)',
+      xy=(11, 3.0), xytext=(10.10, 3.65), color=RED, fontsize=10)
+label(ax, 'New course: 4.0',
+      xy=(12, 4.0), xytext=(11.10, 4.45), color=RED, fontsize=10)
+
+# Curve "name" labels on the right edge (just text, no arrow)
+ax.text(12.55, 2.45, 'GPA', color=GREEN, fontsize=13, fontweight='bold',
+        ha='left', va='center')
+ax.text(12.55, 4.10, 'Marginal Grade', color=RED, fontsize=13, fontweight='bold',
+        ha='left', va='center')
+
+# Axes
+ax.set_xlim(8.4, 13.6)
+ax.set_ylim(-0.4, 5.0)
+ax.set_xticks([9, 10, 11, 12])
+ax.set_yticks([1, 2, 3, 4])
+ax.set_xlabel('Number of courses taken', fontsize=12, fontweight='bold')
+ax.set_ylabel('Grade', fontsize=12, fontweight='bold')
+ax.grid(True, color=GRID, linewidth=0.7, alpha=0.7)
+ax.spines['top'].set_visible(False)
+ax.spines['right'].set_visible(False)
+
+# Legend in upper-left, away from data
+ax.legend(loc='upper left', fontsize=10.5, frameon=True, framealpha=0.95)
+
+plt.tight_layout()
+plt.savefig('fig-gpa-analogy.png', dpi=160, bbox_inches='tight', facecolor='white')
+print('saved fig-gpa-analogy.png')
